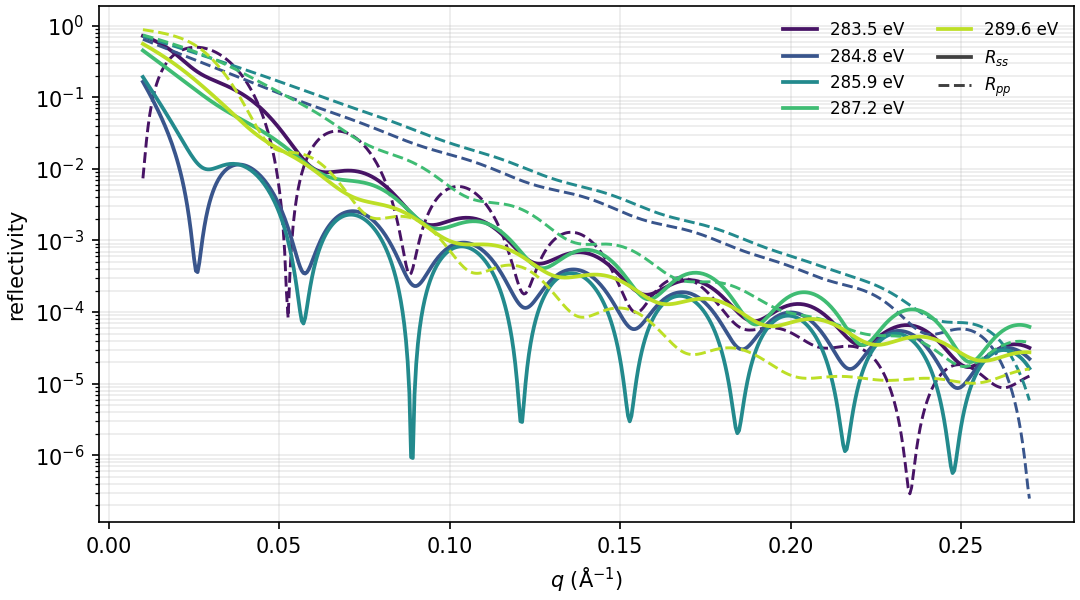
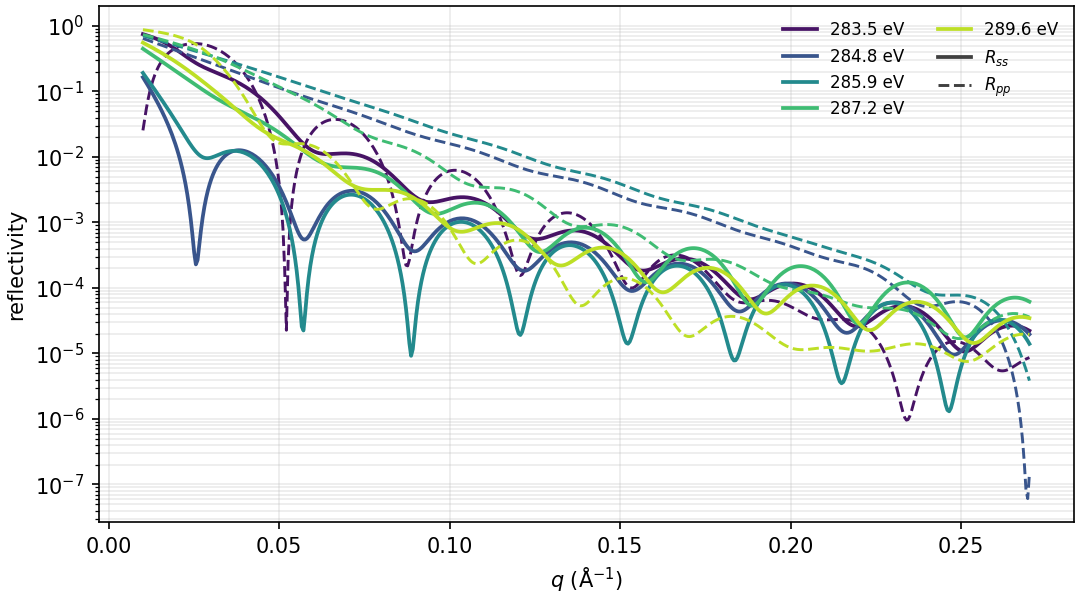
docs: rest the example film on native SiO2 and a Si substrate

diff --git a/examples/lineshape_three_material.py b/examples/lineshape_three_material.py
@@ -1,13 +1,15 @@
 #!/usr/bin/env python3
 """Three-material film with depth-varying composition, orientation and peaks.
 
-Three synthetic five-peak materials (mat1, mat2, mat3) fill one 200 A film.
+Three synthetic five-peak materials (mat1, mat2, mat3) fill one 200 A film
+on a native SiO2 layer and a silicon substrate: vacuum | film | oxide | Si.
 One shared depth shape drives every gradient: the volume fractions, the total
 density, the orientation gamma, and the heights and TDM tilts of some mat1
 peaks. By default the shape is a natural cubic `SplineShape` through four
-knots (surface at z = 0, substrate at z = THICKNESS). `build_structure` takes
-``shape="polynomial"`` to use a cubic `PolynomialShape` through the same four
-anchor positions and the same level values instead. Each gradient is a
+knots (surface at z = 0, film/oxide interface at z = THICKNESS).
+`build_structure` takes ``shape="polynomial"`` to use a cubic `PolynomialShape`
+through the same four anchor positions and the same level values instead.
+Each gradient is a
 `LevelField` on that shape, so every effect follows the same depth profile.
 
 Regenerate the docs figures::
@@ -37,9 +39,15 @@ if TYPE_CHECKING:
 THICKNESS = 200.0  # film thickness, Angstrom
 N_SLABS = 40
 # Knot and anchor positions as fractions of THICKNESS: surface, two interior
-# points, substrate. Both shapes use these positions, so they compare fairly.
+# points, film/oxide interface. Both shapes use these positions, so they
+# compare fairly.
 FRACTIONS = np.array([0.0, 0.3, 0.6, 1.0])
 KNOTS = THICKNESS * FRACTIONS  # spline knots, Angstrom
+OXIDE_THICKNESS = 15.0  # native SiO2, Angstrom (illustrative)
+# Illustrative values. Roughness of film/oxide is the oxide's `rough`;
+# roughness of oxide/Si is the substrate's `rough`.
+OXIDE_ROUGHNESS = 3.0  # film/oxide interface, Angstrom
+SUBSTRATE_ROUGHNESS = 3.0  # oxide/Si interface, Angstrom
 Q = np.linspace(0.01, 0.27, 520)  # 1/Angstrom
 # Carbon K edge: below the first resonance, on mat1 peaks 1 to 3, and on peak 5.
 ENERGIES = np.array([283.5, 284.8, 285.9, 287.2, 289.6])  # eV
@@ -56,7 +64,7 @@ def make_shape(kind: Literal["spline", "polynomial"] = "spline") -> Shape:
 
 
 def field(shape: Shape, name: str, levels: Sequence[float]) -> LevelField:
-    """Level field with explicit values at the four anchors, surface to substrate."""
+    """Level field with explicit values at the four anchors, z = 0 to z = THICKNESS."""
     return LevelField(shape, list(levels), name=name)
 
 
@@ -86,7 +94,7 @@ def mat1_peaks(shape: Shape) -> list[Peak]:
             label="p3",
             energy=287.2,
             width=0.5,
-            # Rises near the surface, then flat through the substrate.
+            # Rises near the surface, then flat through z = THICKNESS.
             height=field(shape, "mat1_p3_height", (0.0128, 0.0155, 0.0160, 0.0160)),
             tdm_tilt=MAGIC_ANGLE,
         ),
@@ -168,28 +176,39 @@ def build_profile(kind: Literal["spline", "polynomial"] = "spline") -> DepthProf
         ],
         # Orientation: gamma in radians, one field per material. mat1 stays
         # near face-on at the surface and reaches the magic angle at the
-        # substrate. mat2 tilts fast near the top and saturates edge-on. mat3
+        # z = THICKNESS. mat2 tilts fast near the top and saturates edge-on. mat3
         # starts at the magic angle and tilts steadily toward edge-on.
         gamma=[
             field(shape, "gamma_mat1", (0.0, 0.10, 0.50, MAGIC_ANGLE)),
             field(shape, "gamma_mat2", (MAGIC_ANGLE, 1.10, 1.40, np.pi / 2)),
             field(shape, "gamma_mat3", (MAGIC_ANGLE, 1.02, 1.30, np.pi / 2)),
         ],
-        # Total density, after mixing: changes mostly toward the substrate.
+        # Total density, after mixing: changes mostly toward z = THICKNESS.
         density_scale=field(shape, "density_scale", (0.85, 0.87, 0.97, 1.15)),
         name="film",
     )
 
 
 def build_structure(shape: Literal["spline", "polynomial"] = "spline") -> Structure:
-    """Vacuum | three-material film | silicon substrate.
+    """Vacuum | three-material film | native SiO2 | Si substrate.
 
     ``shape="polynomial"`` swaps the shared spline for a cubic `PolynomialShape`
     on the same anchors and levels. Only the shape object changes.
+
+    Roughness follows the library convention: a slab's `rough` is the roughness
+    of the interface directly above it. So the film's own `roughness` (left at
+    0, sharp) is the vacuum/film interface, the oxide's `rough` is the
+    film/oxide interface, and the substrate's `rough` is the oxide/Si
+    interface. The oxide thickness and both roughness values are illustrative.
     """
     vacuum = MaterialSLD("", 0, name="vacuum")(0, 0)
-    substrate = MaterialSLD("Si", density=2.33, name="si")(0, 3)
-    return vacuum | build_profile(shape) | substrate
+    oxide = MaterialSLD("SiO2", density=2.2, name="native_oxide")(
+        OXIDE_THICKNESS, OXIDE_ROUGHNESS
+    )
+    substrate = MaterialSLD("Si", density=2.33, name="substrate")(
+        0, SUBSTRATE_ROUGHNESS
+    )
+    return vacuum | build_profile(shape) | oxide | substrate
 
 
 # --8<-- [end:construction]

diff --git a/tests/test_lineshape_example.py b/tests/test_lineshape_example.py
@@ -26,7 +26,9 @@ def test_three_material_example_runs_and_gradients_hold():
     example = _load_example()
 
     structure = example.build_structure()
-    assert len(structure) == 3  # vacuum | film | substrate
+    assert len(structure) == 4  # vacuum | film | native oxide | Si substrate
+    assert structure[2].name == "native_oxide"
+    assert structure[3].name == "substrate"
     refl = example.reflectivity()
     assert np.all(np.isfinite(refl))
     assert np.all(refl >= 0.0)

diff --git a/docs/guides/building_structures/peak_gradients.md b/docs/guides/building_structures/peak_gradients.md
@@ -15,9 +15,9 @@ The peak energies (about 284.5 to 290.4 eV) sit near the carbon K edge.
 
 One `SplineShape` with four knots spans the film, at 0, 60, 120 and 200 Å
 (fractions 0, 0.3, 0.6 and 1 of the thickness $T$). The surface is at $z=0$
-and the substrate at $z=T$. Every gradient is a `LevelField` with four levels
-on that one shared shape. The surface and substrate levels are fixed by the
-film. The two interior levels are chosen so each profile curves, rather than
+and $z=T$ is the film/oxide interface, where the native oxide begins. Every
+gradient is a `LevelField` with four levels on that one shared shape. The
+surface and $z=T$ levels are fixed by the film. The two interior levels are chosen so each profile curves, rather than
 following the straight line between the endpoints. The gradients are the
 volume fractions, the total density, the per-material $\gamma$, the mat1 peak
 1, 2 and 3 heights, and the mat1 TDM tilts of peaks 1, 2, 4 and 5. Everything
@@ -41,7 +41,16 @@ from refloxide.model import MaterialSLD, Mix, ReflectModel, Structure
 from refloxide.profiles import DepthProfile
 ```
 
-The film is `vacuum | build_profile() | substrate`:
+The stack is vacuum | film | native SiO2 | Si, built as
+`vacuum | build_profile() | oxide | substrate`. The oxide is a 15 Å SiO2 slab
+on the silicon substrate. The oxide thickness and both roughness values are
+illustrative.
+
+Roughness follows the library convention: a slab's `rough` is the roughness
+of the interface directly above it. So the film's own `roughness` (left at 0,
+sharp) is the vacuum/film interface, the oxide's `rough` (3 Å) is the
+film/oxide interface, and the substrate's `rough` (3 Å) is the oxide/Si
+interface.
 
 ```python
 --8<-- "examples/lineshape_three_material.py:construction"
@@ -51,28 +60,28 @@ The example sets each channel's four levels explicitly. In words, each
 channel follows this profile:
 
 - **Volume fractions.** mat1 starts at 0.85 and falls fast over the top 60 Å
-  to 0.55. It then levels off near 0.40 at the substrate. mat2 is taken up
+  to 0.55. It then levels off near 0.40 at $z=T$. mat2 is taken up
   near the surface, rising from 0.10 to about 0.35 by 120 Å. It peaks at
   0.358 near 92 Å, a slight overshoot, and then settles at 0.35. mat3 rises
   steadily from 0.05 to 0.25, steepest between 60 and 120 Å. The three
   fractions sum to 1 at every knot.
 - **Total density.** `density_scale` multiplies the mixed tensor after mixing.
-  It runs from 0.85 at the surface to 1.15 at the substrate, and most of the
+  It runs from 0.85 at the surface to 1.15 at $z=T$, and most of the
   rise is in the lower half.
 - **Orientation.** Mat1 stays near face-on at the surface ($\gamma\approx
   6^\circ$ at 60 Å). It tilts through the lower half and reaches the magic
-  angle only at the substrate. Mat2 tilts quickly near the top and saturates
+  angle only at $z=T$. Mat2 tilts quickly near the top and saturates
   close to edge-on. Mat3 starts at the magic angle and tilts steadily toward
-  edge-on: about 58° at 60 Å, 75° at 120 Å, and edge-on at the substrate.
+  edge-on: about 58° at 60 Å, 75° at 120 Å, and edge-on at $z=T$.
 - **Electronic effects in mat1.** Peak 1 and peak 2 heights are 1.5 and 2.0
-  times their substrate values at the surface, and both fall fast near the
-  surface. Peak 3 rises from 0.8 times its substrate value to the substrate
-  value, mostly in the top 100 Å. The heights are written out as absolute
+  times their $z=T$ values at the surface, and both fall fast near the
+  surface. Peak 3 rises from 0.8 times its $z=T$ value to the value at
+  $z=T$, mostly in the top 100 Å. The heights are written out as absolute
   values, not multipliers. The TDM tilt of peaks 1 and 2 goes from $0$ at the
-  surface to $20^\circ$ at the substrate, changing fastest near the surface.
+  surface to $20^\circ$ at $z=T$, changing fastest near the surface.
   The tilt of peak 4 goes from $90^\circ$ to $80^\circ$, changing fastest near
   the surface. The tilt of peak 5 stays near $90^\circ$ until the lower half,
-  then drops to $80^\circ$ at the substrate.
+  then drops to $80^\circ$ at $z=T$.
 
 ### Channels versus depth
 
@@ -93,7 +102,12 @@ and 287.2 eV sit on mat1 peaks 1 to 3, and 289.6 eV sits on mat1 peak 5.
 ### Reflectivity
 
 $R_{ss}$ (solid) and $R_{pp}$ (dashed) over $q$ at the same five energies.
-Each color is one energy.
+Each color is one energy. The stack includes the native oxide. Its effect is
+small over this $q$ range: the largest change, relative to the peak reflectivity
+at each energy, is about 6% at 283.5 eV and under 1% at the others. The oxide's
+own thickness fringe, with period $2\pi/15\,\text{Å}\approx0.42$ Å$^{-1}$, lies
+beyond the plotted $q$ range, so the oxide shows up only as a small change in
+the curves, not as a resolved fringe.
 
 ![Reflectivity](../../assets/lineshape-gradient-reflectivity.png)
 
@@ -111,7 +125,7 @@ shape = PolynomialShape(degree=3, positions=[0.0, 0.3, 0.6, 1.0], name="depth")
 
 The positions are fractions of the thickness, the same as the spline knots
 above. The four levels of every channel stay the same, so both shapes agree
-at the surface and substrate, and the rest of the film is unchanged. In the
+at the surface and at $z=T$, and the rest of the film is unchanged. In the
 polynomial version, each channel is a single cubic through the four anchors.
 
 The two shapes spread a level's effect differently. The spline is a natural
@@ -170,8 +184,9 @@ layer = DepthProfile(
     density_scale=LevelField(shape, [0.9, 0.95, 1.0, 1.05, 1.1], name="density_scale"),
 )
 vacuum = MaterialSLD("", 0, name="vacuum")(0, 0)
-substrate = MaterialSLD("Si", density=2.33, name="si")(0, 3)
-structure = vacuum | layer | substrate
+oxide = MaterialSLD("SiO2", density=2.2, name="native_oxide")(15.0, 3.0)
+substrate = MaterialSLD("Si", density=2.33, name="substrate")(0, 3.0)
+structure = vacuum | layer | oxide | substrate
 ```
 
 ## Other field families
